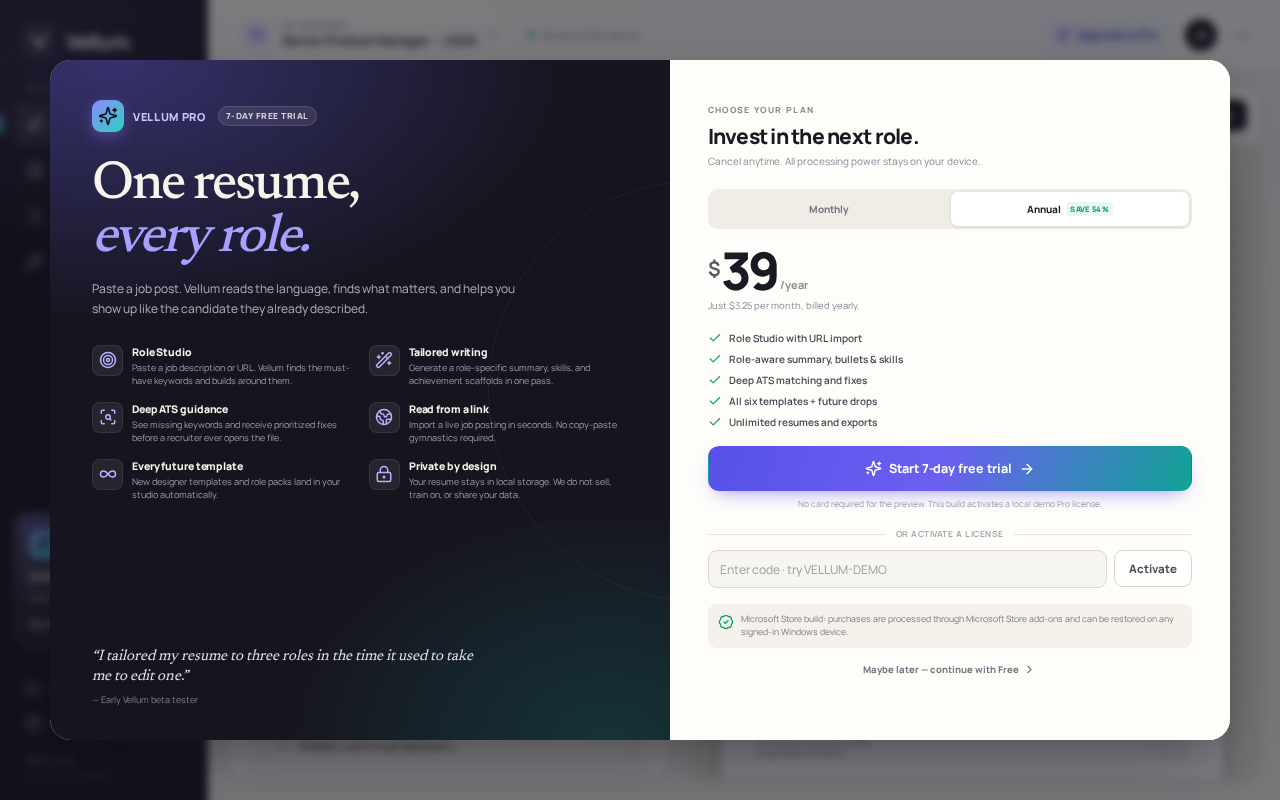
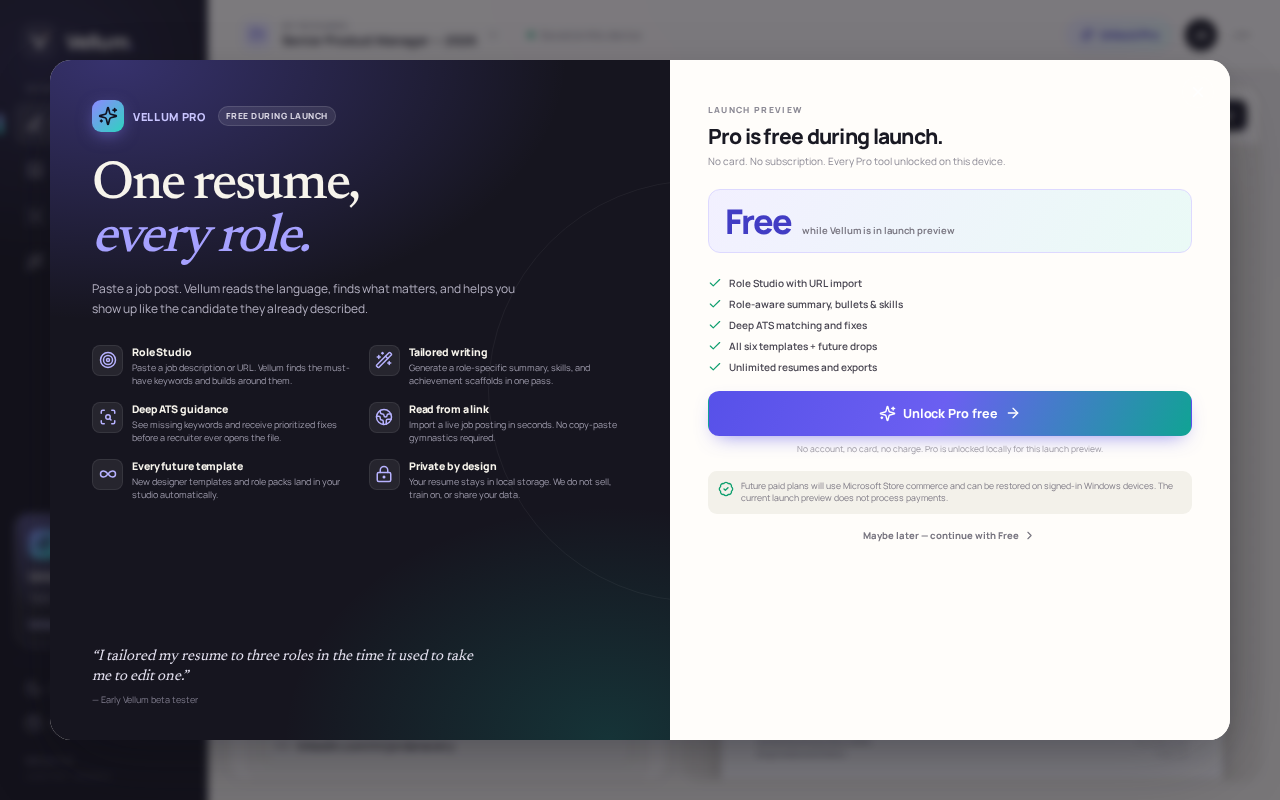
Deploy Vellum production build

diff --git a/privacy.html b/privacy.html
@@ -124,7 +124,7 @@
         <h2>Contact</h2>
         <p>Questions or requests? Email <a href="mailto:support@comwil.ch">support@comwil.ch</a> or use the <a href="./support.html">support page</a>. Do not include a full resume or sensitive personal information in a public support request.</p>
 
-        <p class="meta">Last updated: October 18, 2026 · Vellum 1.0</p>
+        <p class="meta">Last updated: October 19, 2026 · Vellum 1.0</p>
       </div>
 
       <div class="nav-links">
